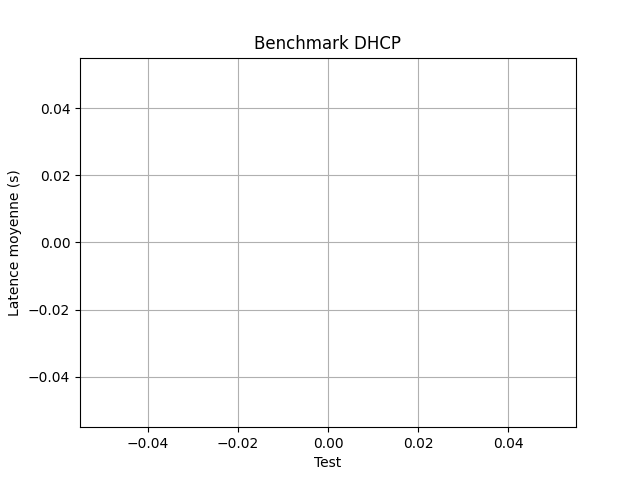
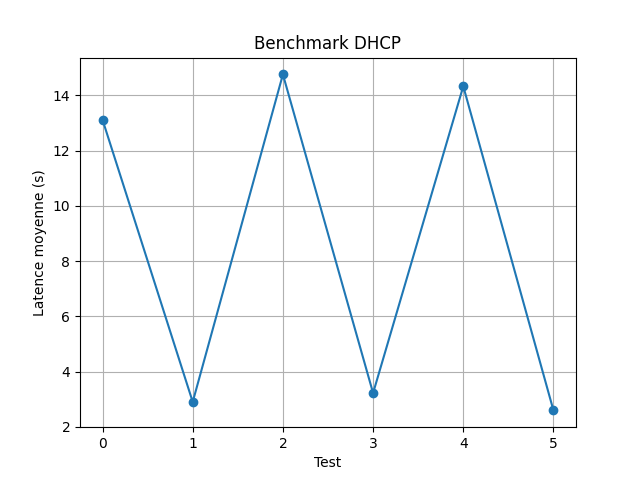
dhcp

diff --git a/tests_performances/dhcp.py b/tests_performances/dhcp.py
@@ -1,67 +1,94 @@
-import argparse
-import time
 import csv
-import os
-import threading
 import matplotlib.pyplot as plt
 from scapy.all import *
 from scapy.layers.dhcp import BOOTP, DHCP
 from scapy.layers.inet import IP, UDP
 from scapy.layers.l2 import Ether
+import datetime
+
+# Vérification de Windows et chargement de la bonne fonction pour les interfaces
+if os.name == 'nt':
+    from scapy.arch.windows import get_windows_if_list as get_if_list
+
+
+# Fonction pour lister les interfaces disponibles
+def list_interfaces():
+    interfaces = get_if_list()
+    print("\n🔹 Interfaces réseau disponibles :")
+    for iface in interfaces:
+        print(f"  ➜ {iface['name']} ({iface['mac']})")
+    print("\nUtilisez `--iface <interface>` pour spécifier une interface.\n")
+    exit(0)
+
+
+# Fonction pour générer une adresse MAC aléatoire valide
+def random_mac():
+    return "02:%02x:%02x:%02x:%02x:%02x" % tuple(random.randint(0, 255) for _ in range(5))
 
 
 # Fonction pour envoyer une requête DHCP DISCOVER et mesurer le temps de réponse
-def dhcp_request(server_ip, results, index):
+def dhcp_request(iface, results, index):
     conf.checkIPaddr = False
-    iface = conf.iface  # Utiliser l'interface par défaut
-    dhcp_discover = Ether(dst="ff:ff:ff:ff:ff:ff") / IP(src="0.0.0.0", dst="255.255.255.255") / UDP(sport=68,
-                                                                                                    dport=67) / BOOTP(
-        op=1, chaddr=RandMAC()) / DHCP(options=[("message-type", "discover"), "end"])
+    mac_address = random_mac()
 
-    print(f"Envoi de la requête DHCP DISCOVER : {dhcp_discover.show()}")  # Affiche la requête envoyée
+    dhcp_discover = Ether(src=mac_address, dst="ff:ff:ff:ff:ff:ff") / \
+                    IP(src="0.0.0.0", dst="255.255.255.255") / \
+                    UDP(sport=68, dport=67) / \
+                    BOOTP(op=1, chaddr=mac_address.replace(":", "")) / \
+                    DHCP(options=[("message-type", "discover"), "end"])
+
+    print(f"[{index}] Envoi d'une requête DHCP DISCOVER depuis {mac_address}")
+
     start_time = time.time()
     sendp(dhcp_discover, iface=iface, verbose=False)
 
     def dhcp_response(pkt):
         if pkt.haslayer(DHCP):
-            # Affichage de la réponse pour vérifier
-            print(f"Réponse DHCP reçue : {pkt[DHCP].options}")
-            return pkt[DHCP].options[0][1] == 2  # Vérifie si c'est un DHCP OFFER
+            for opt in pkt[DHCP].options:
+                if isinstance(opt, tuple) and opt[0] == "message-type" and opt[1] == 2:  # DHCP OFFER
+                    print(f"[{index}] Réponse DHCP OFFER reçue.")
+                    return True
         return False
 
-    # Augmenter le timeout à 10 secondes pour donner plus de temps à la réponse
-    pkt = sniff(filter="udp", iface=iface, timeout=10, count=1, lfilter=dhcp_response)
+    pkt = sniff(filter="udp and port 67", iface=iface, timeout=15, count=1, lfilter=dhcp_response)
     end_time = time.time()
 
     if pkt:
         results[index] = end_time - start_time
     else:
-        results[index] = None  # Pas de réponse reçue
+        print(f"[{index}] Aucune réponse reçue.")
+        results[index] = None
 
 
-def benchmark_dhcp(server_ip, num_clients, duration, save_csv, graphs):
+# Fonction principale du benchmark
+def benchmark_dhcp(iface, num_clients, duration, save_csv, graphs):
+    available_interfaces = [i['name'] for i in get_if_list()]
+
+    if iface not in available_interfaces:
+        print(
+            f"❌ Erreur : L'interface '{iface}' n'existe pas.\nUtilisez `--list` pour voir les interfaces disponibles.")
+        exit(1)
+
     results = []
     start_time = time.time()
 
     while time.time() - start_time < duration:
         latencies = [None] * num_clients
         threads = []
+
         for i in range(num_clients):
-            thread = threading.Thread(target=dhcp_request, args=(server_ip, latencies, i))
+            thread = threading.Thread(target=dhcp_request, args=(iface, latencies, i))
             threads.append(thread)
             thread.start()
 
         for thread in threads:
             thread.join()
 
-        latencies = [lat for lat in latencies if lat is not None]  # Exclure les requêtes sans réponse
-        if latencies:
-            avg_latency = sum(latencies) / len(latencies)
-        else:
-            avg_latency = float('inf')  # Aucun paquet reçu, latence infinie
+        latencies = [lat for lat in latencies if lat is not None]
+        avg_latency = sum(latencies) / len(latencies) if latencies else float('15')
 
         results.append(avg_latency)
-        print(f"Latence moyenne : {avg_latency:.4f} s")
+        print(f"🔹 Latence moyenne : {avg_latency:.4f} s")
         time.sleep(1)
 
     if save_csv:
@@ -70,6 +97,7 @@ def benchmark_dhcp(server_ip, num_clients, duration, save_csv, graphs):
         generate_graph(results)
 
 
+# Enregistrement des résultats dans un fichier CSV
 def save_results_to_csv(results):
     os.makedirs("benchmark_results", exist_ok=True)
     file_path = "benchmark_results/dhcp_benchmark.csv"
@@ -78,9 +106,10 @@ def save_results_to_csv(results):
         writer.writerow(["Test", "Latence moyenne (s)"])
         for i, latency in enumerate(results):
             writer.writerow([i + 1, latency])
-    print(f"Résultats enregistrés dans {file_path}")
+    print(f"✅ Résultats enregistrés dans {file_path}")
 
 
+# Génération d'un graphique des résultats
 def generate_graph(results):
     os.makedirs("benchmark_results/graphs", exist_ok=True)
     plt.plot(results, marker="o")
@@ -88,19 +117,33 @@ def generate_graph(results):
     plt.ylabel("Latence moyenne (s)")
     plt.title("Benchmark DHCP")
     plt.grid()
-    graph_path = "benchmark_results/graphs/dhcp_benchmark.png"
+    date = datetime.datetime.now()
+    date = date.strftime("%d-%m-%Y-%H-%M")
+    graph_path = f"benchmark_results/graphs/dhcp_benchmark_charge-{date}.png"
     plt.savefig(graph_path)
     plt.show()
-    print(f"Graphique enregistré dans {graph_path}")
+    print(f"📊 Graphique enregistré dans {graph_path}")
 
 
+# Exécution du programme
 if __name__ == "__main__":
     parser = argparse.ArgumentParser(description="Benchmark de performances DHCP")
-    parser.add_argument("--server", required=True, help="Adresse IP du serveur DHCP à tester")
+    parser.add_argument("--list", action="store_true", help="Lister les interfaces réseau disponibles")
+    parser.add_argument("--iface", help="Interface réseau à utiliser (ex: Ethernet, Wi-Fi)")
     parser.add_argument("--clients", type=int, default=10, help="Nombre de clients à tester simultanément")
     parser.add_argument("--duration", type=int, default=30, help="Durée du test en secondes")
     parser.add_argument("--save-csv", action="store_true", help="Enregistrer les résultats en CSV")
     parser.add_argument("--graphs", action="store_true", help="Générer un graphique des résultats")
 
     args = parser.parse_args()
-    benchmark_dhcp(args.server, args.clients, args.duration, args.save_csv, args.graphs)
+
+    # Si --list est utilisé, on affiche les interfaces et on quitte
+    if args.list:
+        list_interfaces()
+
+    if not args.iface:
+        print(
+            "❌ Erreur : Vous devez spécifier une interface avec `--iface <interface>`.\nUtilisez `--list` pour voir les interfaces disponibles.")
+        exit(1)
+
+    benchmark_dhcp(args.iface, args.clients, args.duration, args.save_csv, args.graphs)
